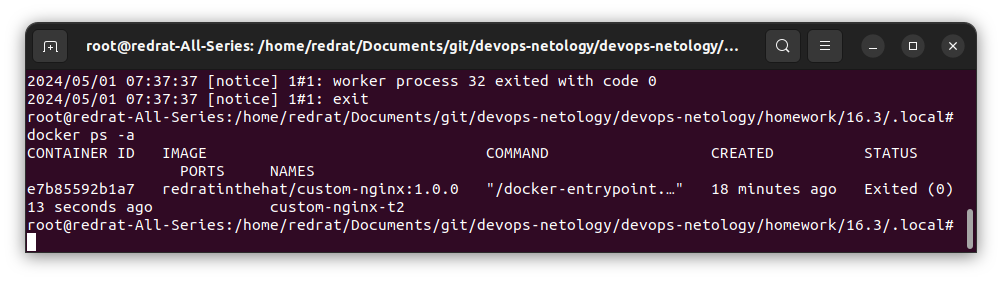
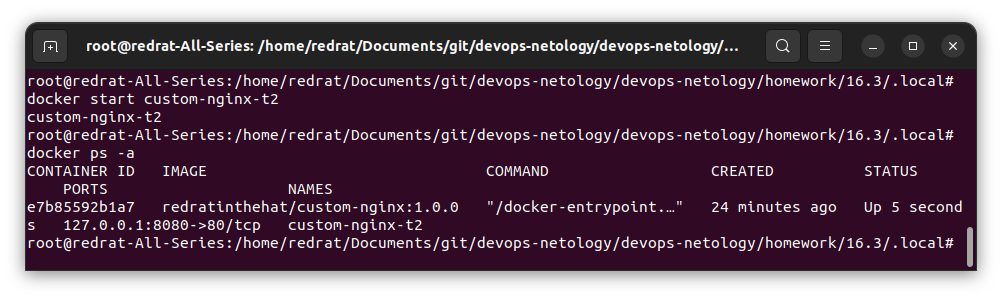
Change screenshorts and fix solutions text

diff --git a/homework/16.3/README.md b/homework/16.3/README.md
@@ -71,16 +71,16 @@ Hey, Netology
 
 ![alt text](images/16.3.3.3.png)
 
-Подключаемся через `docker exec =it <container_name> bash` к контейнеру, устанавливаем nano через `apt update && apt install nano`.<br/>
+Подключаемся через `docker exec -it <container_name> bash` к контейнеру, устанавливаем nano через `apt update && apt install nano`.<br/>
 Редактируем конфигурацию nginx: теперь подключение происходит по 81 порту, 80 недоступен:
 
 ![alt text](images/16.3.3.4.png)
 
 Проверяем, что у нас теперь с подключением к контейнеру. А с подключением у нас ничего, так как на 8080 порту мы устанавливали подключение к 80, а теперь там никто нас слушать не хочет:
 
-![alt text](images/16.3.3.4.png)
+![alt text](images/16.3.3.4.1.png)
 
-3. Попробуем исправить ситуацию через снимок контейнера и запуск этого снимка с другим маппингом:
+3. Попробуем исправить ситуацию через изменение конфигурации контейнера:
     1. Останавливаем контейнер: `docker stop custom-nginx-t2`
     2. Останавливаем демон докера: `systemctl stop docker`
     3. В директории `/var/lib/docker/containers/<id контейнера>` редактируем файлы `hostconfig.json` и `config.v2.json`, заменяя 80 порт на 81.
